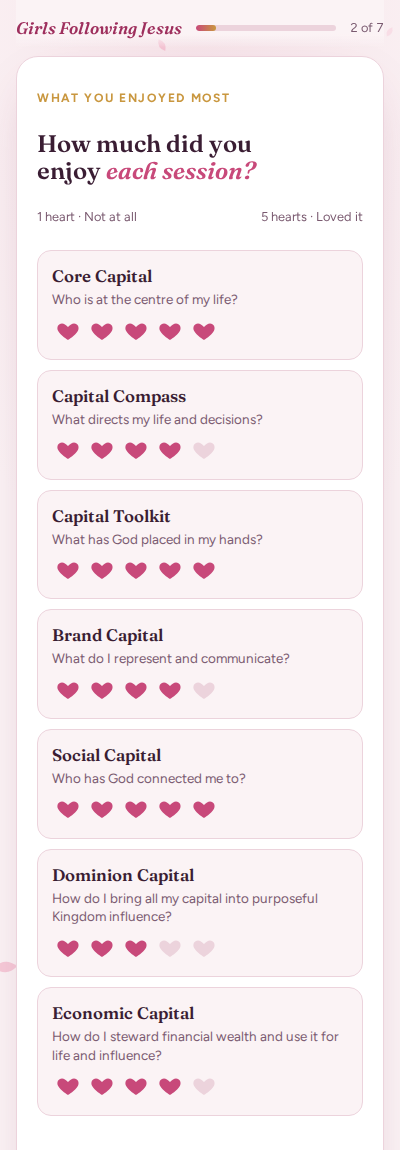
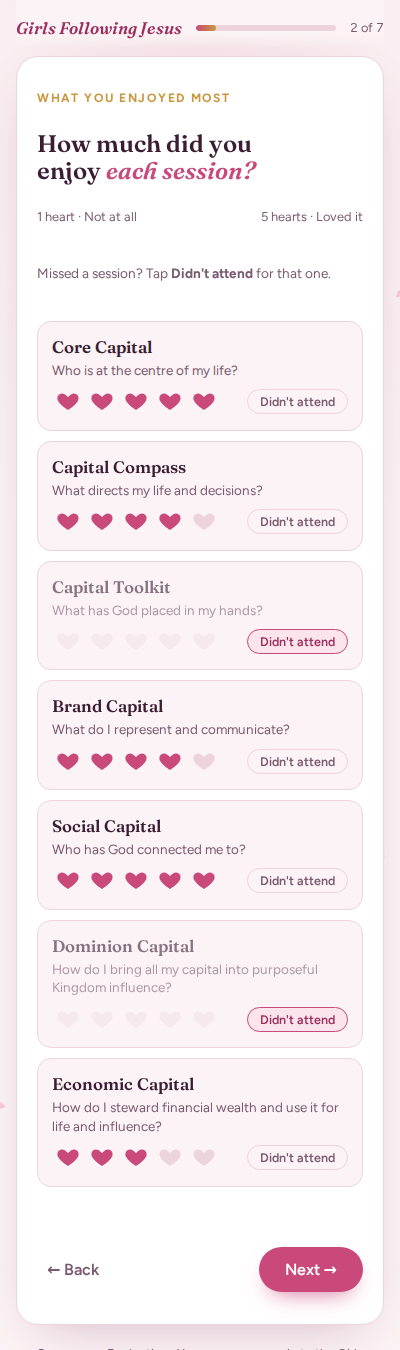
Add Didn't attend option per session; use Acts 17:28a and Philippians 2:13
Claude-Session: https://claude.ai/code/session_01Lsw8A3BorfcPPgAsnktDM6

diff --git a/apps-script/Index.html b/apps-script/Index.html
@@ -112,7 +112,15 @@ input[type="text"]:focus, textarea:focus { outline: none; border-color: var(--ro
 .cap > div:first-child { min-width: 0; }
 .cap b { font-family: var(--font-display); font-weight: 600; font-size: 1.05rem; }
 .cap small { display: block; color: var(--ink-soft); font-size: .84rem; line-height: 1.4; }
-.hearts { display: flex; gap: 2px; }
+.rate { display: flex; flex-direction: column; align-items: flex-end; gap: 6px; }
+.hearts { display: flex; gap: 2px; transition: opacity .2s; }
+.na { appearance: none; cursor: pointer; font: 600 .78rem var(--font-body); color: var(--ink-soft);
+  background: transparent; border: 1.5px solid var(--line); border-radius: 99px; padding: 4px 12px; transition: all .2s; }
+.na:hover { border-color: var(--rose); color: var(--ink); }
+.na[aria-pressed="true"] { background: var(--rose-wash); border-color: var(--rose); color: var(--rose-deep); }
+.na:focus-visible { outline: 3px solid var(--gold); outline-offset: 2px; }
+.cap.is-na .hearts { opacity: .3; }
+.cap.is-na b, .cap.is-na small { opacity: .6; }
 .hearts button { appearance: none; border: 0; background: none; cursor: pointer; padding: 4px; line-height: 0; border-radius: 8px; color: var(--line); }
 .hearts button svg { width: 24px; height: 24px; fill: currentColor; transition: transform .25s cubic-bezier(.3,1.6,.5,1), color .2s; }
 .hearts button.on { color: var(--rose); }
@@ -120,7 +128,7 @@ input[type="text"]:focus, textarea:focus { outline: none; border-color: var(--ro
 .hearts button.pop svg { animation: pop .4s cubic-bezier(.3,1.6,.5,1); }
 @keyframes pop { 40% { transform: scale(1.45); } }
 .scale-key { display: flex; justify-content: space-between; font-size: .8rem; color: var(--ink-soft); }
-@media (max-width: 520px) { .cap { grid-template-columns: 1fr; } }
+@media (max-width: 520px) { .cap { grid-template-columns: 1fr; } .rate { flex-direction: row; align-items: center; justify-content: space-between; flex-wrap: wrap; } }
 
 /* Choice chips */
 .choices { display: grid; gap: 8px; }
@@ -235,6 +243,7 @@ input[type="text"]:focus, textarea:focus { outline: none; border-color: var(--ro
     ["Dominion Capital", "How do I bring all my capital into purposeful Kingdom influence?"],
     ["Economic Capital", "How do I steward financial wealth and use it for life and influence?"]
   ];
+  var NA = "Didn't attend";
   var HEART = '<svg viewBox="0 0 24 24" aria-hidden="true"><path d="M12 21s-7.5-4.6-10-9.3C.3 8.4 2.3 4.5 6 4.5c2.2 0 3.6 1.2 6 3.6 2.4-2.4 3.8-3.6 6-3.6 3.7 0 5.7 3.9 4 7.2C19.5 16.4 12 21 12 21z"/></svg>';
 
   var KEY = "gfj-eval-draft";
@@ -271,26 +280,30 @@ input[type="text"]:focus, textarea:focus { outline: none; border-color: var(--ro
             return '<li style="--i:' + i + '"><b>' + c[0] + '</b><span>' + c[1] + '</span></li>';
           }).join("") + '</ul>' +
           '<div class="facts"><span>⏱ About 10 minutes</span><span>🔒 Name optional</span><span>💕 Honest answers welcome</span></div>' +
-          '<blockquote>“For I know the plans I have for you,” declares the Lord.<cite>Jeremiah 29:11</cite></blockquote>' +
+          '<blockquote>“For in him we live and move and have our being.”<cite>Acts 17:28a</cite></blockquote>' +
           text("name", "Your name", { single: true, hint: "(optional)", ph: "e.g. Grace" });
       }, next: "Begin evaluation" },
     { render: function () {
         return '<p class="eyebrow">What you enjoyed most</p><h2>How much did you enjoy <em>each session?</em></h2>' +
           '<div class="scale-key"><span>1 heart · Not at all</span><span>5 hearts · Loved it</span></div>' +
+          '<p class="hint">Missed a session? Tap <b>Didn\'t attend</b> for that one.</p>' +
           '<div class="capitals">' + CAPITALS.map(function (c, i) {
-            var r = A().ratings[i] || 0;
-            return '<div class="cap"><div><b>' + c[0] + '</b><small>' + c[1] + '</small></div><div class="hearts" role="radiogroup" aria-label="' + c[0] + ' rating">' +
+            var na = A().ratings[i] === NA, r = na ? 0 : (A().ratings[i] || 0);
+            return '<div class="cap' + (na ? " is-na" : "") + '"><div><b>' + c[0] + '</b><small>' + c[1] + '</small></div><div class="rate"><div class="hearts" role="radiogroup" aria-label="' + c[0] + ' rating">' +
               [1, 2, 3, 4, 5].map(function (n) {
                 return '<button type="button" data-cap="' + i + '" data-n="' + n + '" class="' + (n <= r ? "on" : "") + '" role="radio" aria-checked="' + (n === r) + '" aria-label="' + n + ' of 5">' + HEART + '</button>';
-              }).join("") + '</div></div>';
+              }).join("") + '</div><button type="button" class="na" data-cap="' + i + '" aria-pressed="' + na + '">Didn\'t attend</button></div></div>';
           }).join("") + '</div>';
-      }, check: function () { return Object.keys(A().ratings).length === CAPITALS.length || "Please rate all seven sessions."; } },
+      }, check: function () { return Object.keys(A().ratings).length === CAPITALS.length || "Please rate each session, or tap Didn't attend."; } },
     { render: function () {
         return '<p class="eyebrow">What you enjoyed most</p><h2>Which session did you <em>enjoy the most?</em> <span class="req">*</span></h2>' +
-          choices("favourite", CAPITALS) +
+          choices("favourite", attended()) +
           text("why", "Why was that session your favourite?") +
           text("moment", "Was there a moment, activity or conversation that really stood out to you?");
-      }, check: function () { return !!A().favourite || "Please choose your favourite session."; } },
+      }, check: function () {
+        var ok = attended().some(function (c) { return c[0] === A().favourite; });
+        return ok || "Please choose your favourite session.";
+      } },
     { render: function () {
         return '<p class="eyebrow">What you took away</p><h2>What are you <em>carrying home?</em></h2>' +
           text("lesson", "What is the biggest lesson or truth you are taking away?", { req: true }) +
@@ -318,8 +331,8 @@ input[type="text"]:focus, textarea:focus { outline: none; border-color: var(--ro
         if (SHEET_URL) {
           return '<svg class="done-mark" viewBox="0 0 84 84" aria-hidden="true"><circle cx="42" cy="42" r="42"/><path d="M26 43l11 11 21-23"/></svg>' +
             '<h2>Thank you, <em>' + esc(A().name || "sister") + '!</em></h2>' +
-            '<p class="lede">Your response has been submitted. May God continue the good work He began in you.</p>' +
-            '<blockquote>“He who began a good work in you will carry it on to completion.”<cite>Philippians 1:6</cite></blockquote>' +
+            '<p class="lede">Your response has been submitted. May God keep working in you for His good purpose.</p>' +
+            '<blockquote>“For it is God who works in you to will and to act in order to fulfil his good purpose.”<cite>Philippians 2:13</cite></blockquote>' +
             '<button type="button" class="btn ghost" id="restart">Start a new response</button>';
         }
         var send = SHEET_URL
@@ -337,12 +350,16 @@ input[type="text"]:focus, textarea:focus { outline: none; border-color: var(--ro
       } }
   ];
 
+  function attended() {
+    var list = CAPITALS.filter(function (c, i) { return A().ratings[i] !== NA; });
+    return list.length ? list : CAPITALS;
+  }
   function summary() {
     var a = A(), L = [];
     L.push("🌸 GIRLS FOLLOWING JESUS · EVALUATION");
     if (a.name) L.push("Name: " + a.name);
     L.push("", "SESSION RATINGS (out of 5)");
-    CAPITALS.forEach(function (c, i) { L.push("• " + c[0] + ": " + (a.ratings[i] || "-") + " " + "♥".repeat(a.ratings[i] || 0)); });
+    CAPITALS.forEach(function (c, i) { var v = a.ratings[i]; L.push("• " + c[0] + ": " + (v === NA ? NA : (v || "-") + " " + "♥".repeat(v || 0))); });
     function q(label, v) { if (v && String(v).trim()) L.push("", label, String(v).trim()); }
     q("Favourite session:", a.favourite); q("Why:", a.why); q("Standout moment:", a.moment);
     q("Biggest lesson:", a.lesson); q("Capital to grow in:", a.grow); q("How it changed me:", a.changed);
@@ -405,11 +422,24 @@ input[type="text"]:focus, textarea:focus { outline: none; border-color: var(--ro
       b.addEventListener("click", function () {
         var i = b.dataset.cap, n = +b.dataset.n;
         A().ratings[i] = n; save();
+        var row = b.closest(".cap"); row.classList.remove("is-na");
+        row.querySelector(".na").setAttribute("aria-pressed", "false");
         b.parentNode.querySelectorAll("button").forEach(function (x) {
           var on = +x.dataset.n <= n;
           x.classList.toggle("on", on); x.setAttribute("aria-checked", +x.dataset.n === n);
           x.classList.remove("pop"); if (on) { void x.offsetWidth; x.classList.add("pop"); }
         });
+      });
+    });
+    app.querySelectorAll(".na").forEach(function (b) {
+      b.addEventListener("click", function () {
+        var i = b.dataset.cap, row = b.closest(".cap"), on = b.getAttribute("aria-pressed") !== "true";
+        if (on) A().ratings[i] = NA; else delete A().ratings[i];
+        if (on && A().favourite === CAPITALS[i][0]) delete A().favourite;
+        save();
+        b.setAttribute("aria-pressed", on);
+        row.classList.toggle("is-na", on);
+        row.querySelectorAll(".hearts button").forEach(function (x) { x.classList.remove("on"); x.setAttribute("aria-checked", "false"); });
       });
     });
     app.querySelectorAll("[data-choice]").forEach(function (g) {

diff --git a/index.html b/index.html
@@ -127,7 +127,15 @@ input[type="text"]:focus, textarea:focus { outline: none; border-color: var(--ro
 .cap > div:first-child { min-width: 0; }
 .cap b { font-family: var(--font-display); font-weight: 600; font-size: 1.05rem; }
 .cap small { display: block; color: var(--ink-soft); font-size: .84rem; line-height: 1.4; }
-.hearts { display: flex; gap: 2px; }
+.rate { display: flex; flex-direction: column; align-items: flex-end; gap: 6px; }
+.hearts { display: flex; gap: 2px; transition: opacity .2s; }
+.na { appearance: none; cursor: pointer; font: 600 .78rem var(--font-body); color: var(--ink-soft);
+  background: transparent; border: 1.5px solid var(--line); border-radius: 99px; padding: 4px 12px; transition: all .2s; }
+.na:hover { border-color: var(--rose); color: var(--ink); }
+.na[aria-pressed="true"] { background: var(--rose-wash); border-color: var(--rose); color: var(--rose-deep); }
+.na:focus-visible { outline: 3px solid var(--gold); outline-offset: 2px; }
+.cap.is-na .hearts { opacity: .3; }
+.cap.is-na b, .cap.is-na small { opacity: .6; }
 .hearts button { appearance: none; border: 0; background: none; cursor: pointer; padding: 4px; line-height: 0; border-radius: 8px; color: var(--line); }
 .hearts button svg { width: 24px; height: 24px; fill: currentColor; transition: transform .25s cubic-bezier(.3,1.6,.5,1), color .2s; }
 .hearts button.on { color: var(--rose); }
@@ -135,7 +143,7 @@ input[type="text"]:focus, textarea:focus { outline: none; border-color: var(--ro
 .hearts button.pop svg { animation: pop .4s cubic-bezier(.3,1.6,.5,1); }
 @keyframes pop { 40% { transform: scale(1.45); } }
 .scale-key { display: flex; justify-content: space-between; font-size: .8rem; color: var(--ink-soft); }
-@media (max-width: 520px) { .cap { grid-template-columns: 1fr; } }
+@media (max-width: 520px) { .cap { grid-template-columns: 1fr; } .rate { flex-direction: row; align-items: center; justify-content: space-between; flex-wrap: wrap; } }
 
 /* Choice chips */
 .choices { display: grid; gap: 8px; }
@@ -250,6 +258,7 @@ input[type="text"]:focus, textarea:focus { outline: none; border-color: var(--ro
     ["Dominion Capital", "How do I bring all my capital into purposeful Kingdom influence?"],
     ["Economic Capital", "How do I steward financial wealth and use it for life and influence?"]
   ];
+  var NA = "Didn't attend";
   var HEART = '<svg viewBox="0 0 24 24" aria-hidden="true"><path d="M12 21s-7.5-4.6-10-9.3C.3 8.4 2.3 4.5 6 4.5c2.2 0 3.6 1.2 6 3.6 2.4-2.4 3.8-3.6 6-3.6 3.7 0 5.7 3.9 4 7.2C19.5 16.4 12 21 12 21z"/></svg>';
 
   var KEY = "gfj-eval-draft";
@@ -286,26 +295,30 @@ input[type="text"]:focus, textarea:focus { outline: none; border-color: var(--ro
             return '<li style="--i:' + i + '"><b>' + c[0] + '</b><span>' + c[1] + '</span></li>';
           }).join("") + '</ul>' +
           '<div class="facts"><span>⏱ About 10 minutes</span><span>🔒 Name optional</span><span>💕 Honest answers welcome</span></div>' +
-          '<blockquote>“For I know the plans I have for you,” declares the Lord.<cite>Jeremiah 29:11</cite></blockquote>' +
+          '<blockquote>“For in him we live and move and have our being.”<cite>Acts 17:28a</cite></blockquote>' +
           text("name", "Your name", { single: true, hint: "(optional)", ph: "e.g. Grace" });
       }, next: "Begin evaluation" },
     { render: function () {
         return '<p class="eyebrow">What you enjoyed most</p><h2>How much did you enjoy <em>each session?</em></h2>' +
           '<div class="scale-key"><span>1 heart · Not at all</span><span>5 hearts · Loved it</span></div>' +
+          '<p class="hint">Missed a session? Tap <b>Didn\'t attend</b> for that one.</p>' +
           '<div class="capitals">' + CAPITALS.map(function (c, i) {
-            var r = A().ratings[i] || 0;
-            return '<div class="cap"><div><b>' + c[0] + '</b><small>' + c[1] + '</small></div><div class="hearts" role="radiogroup" aria-label="' + c[0] + ' rating">' +
+            var na = A().ratings[i] === NA, r = na ? 0 : (A().ratings[i] || 0);
+            return '<div class="cap' + (na ? " is-na" : "") + '"><div><b>' + c[0] + '</b><small>' + c[1] + '</small></div><div class="rate"><div class="hearts" role="radiogroup" aria-label="' + c[0] + ' rating">' +
               [1, 2, 3, 4, 5].map(function (n) {
                 return '<button type="button" data-cap="' + i + '" data-n="' + n + '" class="' + (n <= r ? "on" : "") + '" role="radio" aria-checked="' + (n === r) + '" aria-label="' + n + ' of 5">' + HEART + '</button>';
-              }).join("") + '</div></div>';
+              }).join("") + '</div><button type="button" class="na" data-cap="' + i + '" aria-pressed="' + na + '">Didn\'t attend</button></div></div>';
           }).join("") + '</div>';
-      }, check: function () { return Object.keys(A().ratings).length === CAPITALS.length || "Please rate all seven sessions."; } },
+      }, check: function () { return Object.keys(A().ratings).length === CAPITALS.length || "Please rate each session, or tap Didn't attend."; } },
     { render: function () {
         return '<p class="eyebrow">What you enjoyed most</p><h2>Which session did you <em>enjoy the most?</em> <span class="req">*</span></h2>' +
-          choices("favourite", CAPITALS) +
+          choices("favourite", attended()) +
           text("why", "Why was that session your favourite?") +
           text("moment", "Was there a moment, activity or conversation that really stood out to you?");
-      }, check: function () { return !!A().favourite || "Please choose your favourite session."; } },
+      }, check: function () {
+        var ok = attended().some(function (c) { return c[0] === A().favourite; });
+        return ok || "Please choose your favourite session.";
+      } },
     { render: function () {
         return '<p class="eyebrow">What you took away</p><h2>What are you <em>carrying home?</em></h2>' +
           text("lesson", "What is the biggest lesson or truth you are taking away?", { req: true }) +
@@ -333,8 +346,8 @@ input[type="text"]:focus, textarea:focus { outline: none; border-color: var(--ro
         if (SHEET_URL) {
           return '<svg class="done-mark" viewBox="0 0 84 84" aria-hidden="true"><circle cx="42" cy="42" r="42"/><path d="M26 43l11 11 21-23"/></svg>' +
             '<h2>Thank you, <em>' + esc(A().name || "sister") + '!</em></h2>' +
-            '<p class="lede">Your response has been submitted. May God continue the good work He began in you.</p>' +
-            '<blockquote>“He who began a good work in you will carry it on to completion.”<cite>Philippians 1:6</cite></blockquote>' +
+            '<p class="lede">Your response has been submitted. May God keep working in you for His good purpose.</p>' +
+            '<blockquote>“For it is God who works in you to will and to act in order to fulfil his good purpose.”<cite>Philippians 2:13</cite></blockquote>' +
             '<button type="button" class="btn ghost" id="restart">Start a new response</button>';
         }
         var send = SHEET_URL
@@ -352,12 +365,16 @@ input[type="text"]:focus, textarea:focus { outline: none; border-color: var(--ro
       } }
   ];
 
+  function attended() {
+    var list = CAPITALS.filter(function (c, i) { return A().ratings[i] !== NA; });
+    return list.length ? list : CAPITALS;
+  }
   function summary() {
     var a = A(), L = [];
     L.push("🌸 GIRLS FOLLOWING JESUS · EVALUATION");
     if (a.name) L.push("Name: " + a.name);
     L.push("", "SESSION RATINGS (out of 5)");
-    CAPITALS.forEach(function (c, i) { L.push("• " + c[0] + ": " + (a.ratings[i] || "-") + " " + "♥".repeat(a.ratings[i] || 0)); });
+    CAPITALS.forEach(function (c, i) { var v = a.ratings[i]; L.push("• " + c[0] + ": " + (v === NA ? NA : (v || "-") + " " + "♥".repeat(v || 0))); });
     function q(label, v) { if (v && String(v).trim()) L.push("", label, String(v).trim()); }
     q("Favourite session:", a.favourite); q("Why:", a.why); q("Standout moment:", a.moment);
     q("Biggest lesson:", a.lesson); q("Capital to grow in:", a.grow); q("How it changed me:", a.changed);
@@ -420,11 +437,24 @@ input[type="text"]:focus, textarea:focus { outline: none; border-color: var(--ro
       b.addEventListener("click", function () {
         var i = b.dataset.cap, n = +b.dataset.n;
         A().ratings[i] = n; save();
+        var row = b.closest(".cap"); row.classList.remove("is-na");
+        row.querySelector(".na").setAttribute("aria-pressed", "false");
         b.parentNode.querySelectorAll("button").forEach(function (x) {
           var on = +x.dataset.n <= n;
           x.classList.toggle("on", on); x.setAttribute("aria-checked", +x.dataset.n === n);
           x.classList.remove("pop"); if (on) { void x.offsetWidth; x.classList.add("pop"); }
         });
+      });
+    });
+    app.querySelectorAll(".na").forEach(function (b) {
+      b.addEventListener("click", function () {
+        var i = b.dataset.cap, row = b.closest(".cap"), on = b.getAttribute("aria-pressed") !== "true";
+        if (on) A().ratings[i] = NA; else delete A().ratings[i];
+        if (on && A().favourite === CAPITALS[i][0]) delete A().favourite;
+        save();
+        b.setAttribute("aria-pressed", on);
+        row.classList.toggle("is-na", on);
+        row.querySelectorAll(".hearts button").forEach(function (x) { x.classList.remove("on"); x.setAttribute("aria-checked", "false"); });
       });
     });
     app.querySelectorAll("[data-choice]").forEach(function (g) {

diff --git a/src/index.html b/src/index.html
@@ -111,7 +111,15 @@ input[type="text"]:focus, textarea:focus { outline: none; border-color: var(--ro
 .cap > div:first-child { min-width: 0; }
 .cap b { font-family: var(--font-display); font-weight: 600; font-size: 1.05rem; }
 .cap small { display: block; color: var(--ink-soft); font-size: .84rem; line-height: 1.4; }
-.hearts { display: flex; gap: 2px; }
+.rate { display: flex; flex-direction: column; align-items: flex-end; gap: 6px; }
+.hearts { display: flex; gap: 2px; transition: opacity .2s; }
+.na { appearance: none; cursor: pointer; font: 600 .78rem var(--font-body); color: var(--ink-soft);
+  background: transparent; border: 1.5px solid var(--line); border-radius: 99px; padding: 4px 12px; transition: all .2s; }
+.na:hover { border-color: var(--rose); color: var(--ink); }
+.na[aria-pressed="true"] { background: var(--rose-wash); border-color: var(--rose); color: var(--rose-deep); }
+.na:focus-visible { outline: 3px solid var(--gold); outline-offset: 2px; }
+.cap.is-na .hearts { opacity: .3; }
+.cap.is-na b, .cap.is-na small { opacity: .6; }
 .hearts button { appearance: none; border: 0; background: none; cursor: pointer; padding: 4px; line-height: 0; border-radius: 8px; color: var(--line); }
 .hearts button svg { width: 24px; height: 24px; fill: currentColor; transition: transform .25s cubic-bezier(.3,1.6,.5,1), color .2s; }
 .hearts button.on { color: var(--rose); }
@@ -119,7 +127,7 @@ input[type="text"]:focus, textarea:focus { outline: none; border-color: var(--ro
 .hearts button.pop svg { animation: pop .4s cubic-bezier(.3,1.6,.5,1); }
 @keyframes pop { 40% { transform: scale(1.45); } }
 .scale-key { display: flex; justify-content: space-between; font-size: .8rem; color: var(--ink-soft); }
-@media (max-width: 520px) { .cap { grid-template-columns: 1fr; } }
+@media (max-width: 520px) { .cap { grid-template-columns: 1fr; } .rate { flex-direction: row; align-items: center; justify-content: space-between; flex-wrap: wrap; } }
 
 /* Choice chips */
 .choices { display: grid; gap: 8px; }
@@ -234,6 +242,7 @@ input[type="text"]:focus, textarea:focus { outline: none; border-color: var(--ro
     ["Dominion Capital", "How do I bring all my capital into purposeful Kingdom influence?"],
     ["Economic Capital", "How do I steward financial wealth and use it for life and influence?"]
   ];
+  var NA = "Didn't attend";
   var HEART = '<svg viewBox="0 0 24 24" aria-hidden="true"><path d="M12 21s-7.5-4.6-10-9.3C.3 8.4 2.3 4.5 6 4.5c2.2 0 3.6 1.2 6 3.6 2.4-2.4 3.8-3.6 6-3.6 3.7 0 5.7 3.9 4 7.2C19.5 16.4 12 21 12 21z"/></svg>';
 
   var KEY = "gfj-eval-draft";
@@ -270,26 +279,30 @@ input[type="text"]:focus, textarea:focus { outline: none; border-color: var(--ro
             return '<li style="--i:' + i + '"><b>' + c[0] + '</b><span>' + c[1] + '</span></li>';
           }).join("") + '</ul>' +
           '<div class="facts"><span>⏱ About 10 minutes</span><span>🔒 Name optional</span><span>💕 Honest answers welcome</span></div>' +
-          '<blockquote>“For I know the plans I have for you,” declares the Lord.<cite>Jeremiah 29:11</cite></blockquote>' +
+          '<blockquote>“For in him we live and move and have our being.”<cite>Acts 17:28a</cite></blockquote>' +
           text("name", "Your name", { single: true, hint: "(optional)", ph: "e.g. Grace" });
       }, next: "Begin evaluation" },
     { render: function () {
         return '<p class="eyebrow">What you enjoyed most</p><h2>How much did you enjoy <em>each session?</em></h2>' +
           '<div class="scale-key"><span>1 heart · Not at all</span><span>5 hearts · Loved it</span></div>' +
+          '<p class="hint">Missed a session? Tap <b>Didn\'t attend</b> for that one.</p>' +
           '<div class="capitals">' + CAPITALS.map(function (c, i) {
-            var r = A().ratings[i] || 0;
-            return '<div class="cap"><div><b>' + c[0] + '</b><small>' + c[1] + '</small></div><div class="hearts" role="radiogroup" aria-label="' + c[0] + ' rating">' +
+            var na = A().ratings[i] === NA, r = na ? 0 : (A().ratings[i] || 0);
+            return '<div class="cap' + (na ? " is-na" : "") + '"><div><b>' + c[0] + '</b><small>' + c[1] + '</small></div><div class="rate"><div class="hearts" role="radiogroup" aria-label="' + c[0] + ' rating">' +
               [1, 2, 3, 4, 5].map(function (n) {
                 return '<button type="button" data-cap="' + i + '" data-n="' + n + '" class="' + (n <= r ? "on" : "") + '" role="radio" aria-checked="' + (n === r) + '" aria-label="' + n + ' of 5">' + HEART + '</button>';
-              }).join("") + '</div></div>';
+              }).join("") + '</div><button type="button" class="na" data-cap="' + i + '" aria-pressed="' + na + '">Didn\'t attend</button></div></div>';
           }).join("") + '</div>';
-      }, check: function () { return Object.keys(A().ratings).length === CAPITALS.length || "Please rate all seven sessions."; } },
+      }, check: function () { return Object.keys(A().ratings).length === CAPITALS.length || "Please rate each session, or tap Didn't attend."; } },
     { render: function () {
         return '<p class="eyebrow">What you enjoyed most</p><h2>Which session did you <em>enjoy the most?</em> <span class="req">*</span></h2>' +
-          choices("favourite", CAPITALS) +
+          choices("favourite", attended()) +
           text("why", "Why was that session your favourite?") +
           text("moment", "Was there a moment, activity or conversation that really stood out to you?");
-      }, check: function () { return !!A().favourite || "Please choose your favourite session."; } },
+      }, check: function () {
+        var ok = attended().some(function (c) { return c[0] === A().favourite; });
+        return ok || "Please choose your favourite session.";
+      } },
     { render: function () {
         return '<p class="eyebrow">What you took away</p><h2>What are you <em>carrying home?</em></h2>' +
           text("lesson", "What is the biggest lesson or truth you are taking away?", { req: true }) +
@@ -317,8 +330,8 @@ input[type="text"]:focus, textarea:focus { outline: none; border-color: var(--ro
         if (SHEET_URL) {
           return '<svg class="done-mark" viewBox="0 0 84 84" aria-hidden="true"><circle cx="42" cy="42" r="42"/><path d="M26 43l11 11 21-23"/></svg>' +
             '<h2>Thank you, <em>' + esc(A().name || "sister") + '!</em></h2>' +
-            '<p class="lede">Your response has been submitted. May God continue the good work He began in you.</p>' +
-            '<blockquote>“He who began a good work in you will carry it on to completion.”<cite>Philippians 1:6</cite></blockquote>' +
+            '<p class="lede">Your response has been submitted. May God keep working in you for His good purpose.</p>' +
+            '<blockquote>“For it is God who works in you to will and to act in order to fulfil his good purpose.”<cite>Philippians 2:13</cite></blockquote>' +
             '<button type="button" class="btn ghost" id="restart">Start a new response</button>';
         }
         var send = SHEET_URL
@@ -336,12 +349,16 @@ input[type="text"]:focus, textarea:focus { outline: none; border-color: var(--ro
       } }
   ];
 
+  function attended() {
+    var list = CAPITALS.filter(function (c, i) { return A().ratings[i] !== NA; });
+    return list.length ? list : CAPITALS;
+  }
   function summary() {
     var a = A(), L = [];
     L.push("🌸 GIRLS FOLLOWING JESUS · EVALUATION");
     if (a.name) L.push("Name: " + a.name);
     L.push("", "SESSION RATINGS (out of 5)");
-    CAPITALS.forEach(function (c, i) { L.push("• " + c[0] + ": " + (a.ratings[i] || "-") + " " + "♥".repeat(a.ratings[i] || 0)); });
+    CAPITALS.forEach(function (c, i) { var v = a.ratings[i]; L.push("• " + c[0] + ": " + (v === NA ? NA : (v || "-") + " " + "♥".repeat(v || 0))); });
     function q(label, v) { if (v && String(v).trim()) L.push("", label, String(v).trim()); }
     q("Favourite session:", a.favourite); q("Why:", a.why); q("Standout moment:", a.moment);
     q("Biggest lesson:", a.lesson); q("Capital to grow in:", a.grow); q("How it changed me:", a.changed);
@@ -404,11 +421,24 @@ input[type="text"]:focus, textarea:focus { outline: none; border-color: var(--ro
       b.addEventListener("click", function () {
         var i = b.dataset.cap, n = +b.dataset.n;
         A().ratings[i] = n; save();
+        var row = b.closest(".cap"); row.classList.remove("is-na");
+        row.querySelector(".na").setAttribute("aria-pressed", "false");
         b.parentNode.querySelectorAll("button").forEach(function (x) {
           var on = +x.dataset.n <= n;
           x.classList.toggle("on", on); x.setAttribute("aria-checked", +x.dataset.n === n);
           x.classList.remove("pop"); if (on) { void x.offsetWidth; x.classList.add("pop"); }
         });
+      });
+    });
+    app.querySelectorAll(".na").forEach(function (b) {
+      b.addEventListener("click", function () {
+        var i = b.dataset.cap, row = b.closest(".cap"), on = b.getAttribute("aria-pressed") !== "true";
+        if (on) A().ratings[i] = NA; else delete A().ratings[i];
+        if (on && A().favourite === CAPITALS[i][0]) delete A().favourite;
+        save();
+        b.setAttribute("aria-pressed", on);
+        row.classList.toggle("is-na", on);
+        row.querySelectorAll(".hearts button").forEach(function (x) { x.classList.remove("on"); x.setAttribute("aria-checked", "false"); });
       });
     });
     app.querySelectorAll("[data-choice]").forEach(function (g) {
